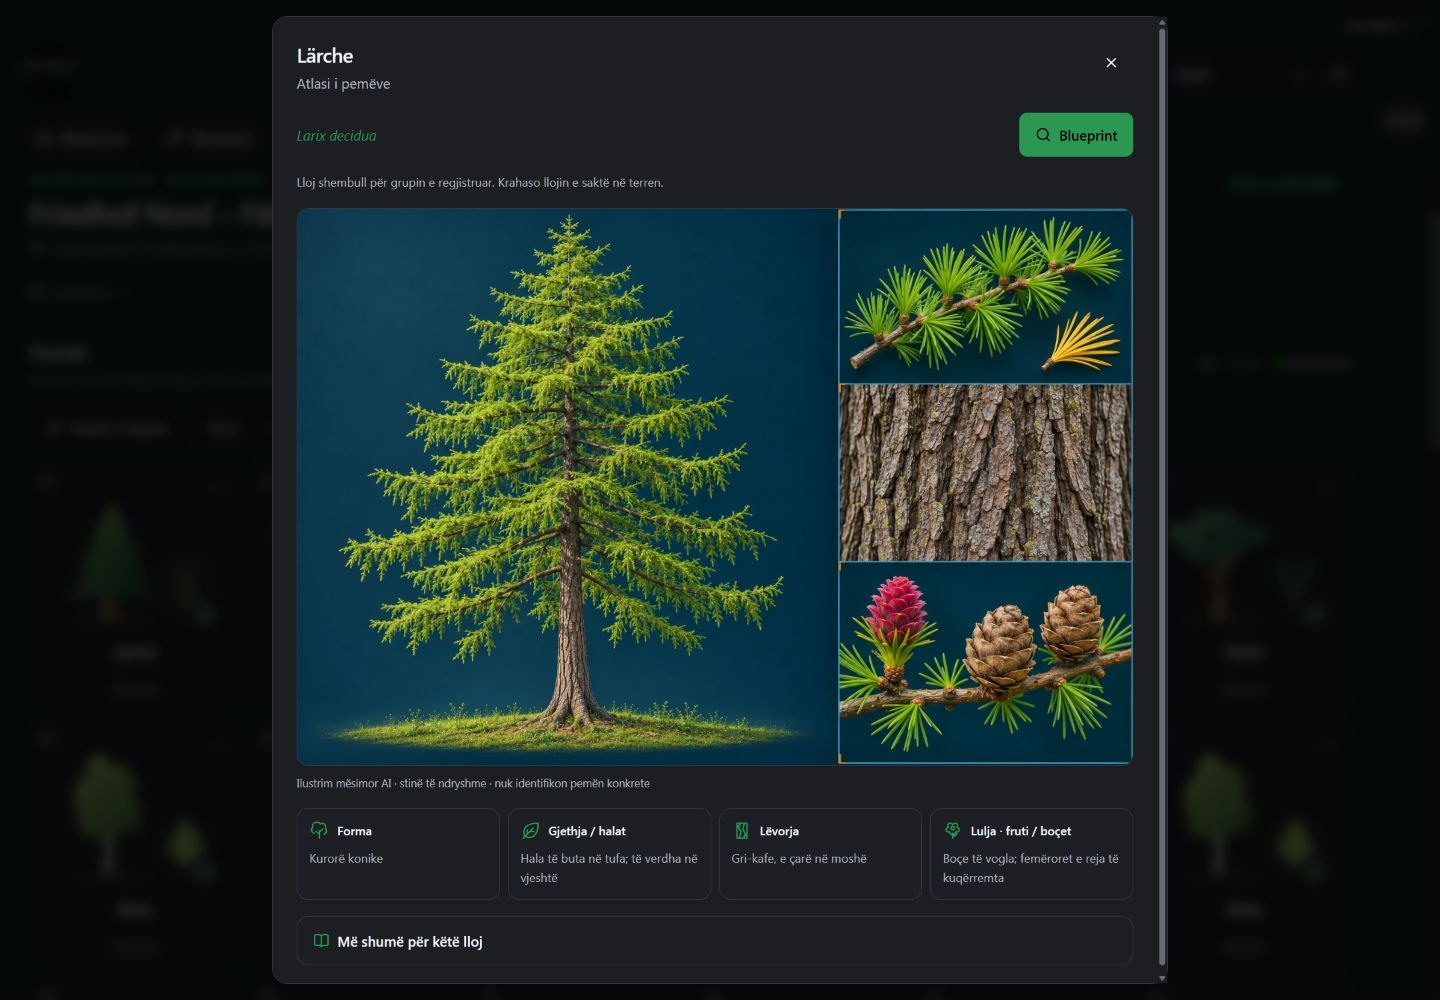
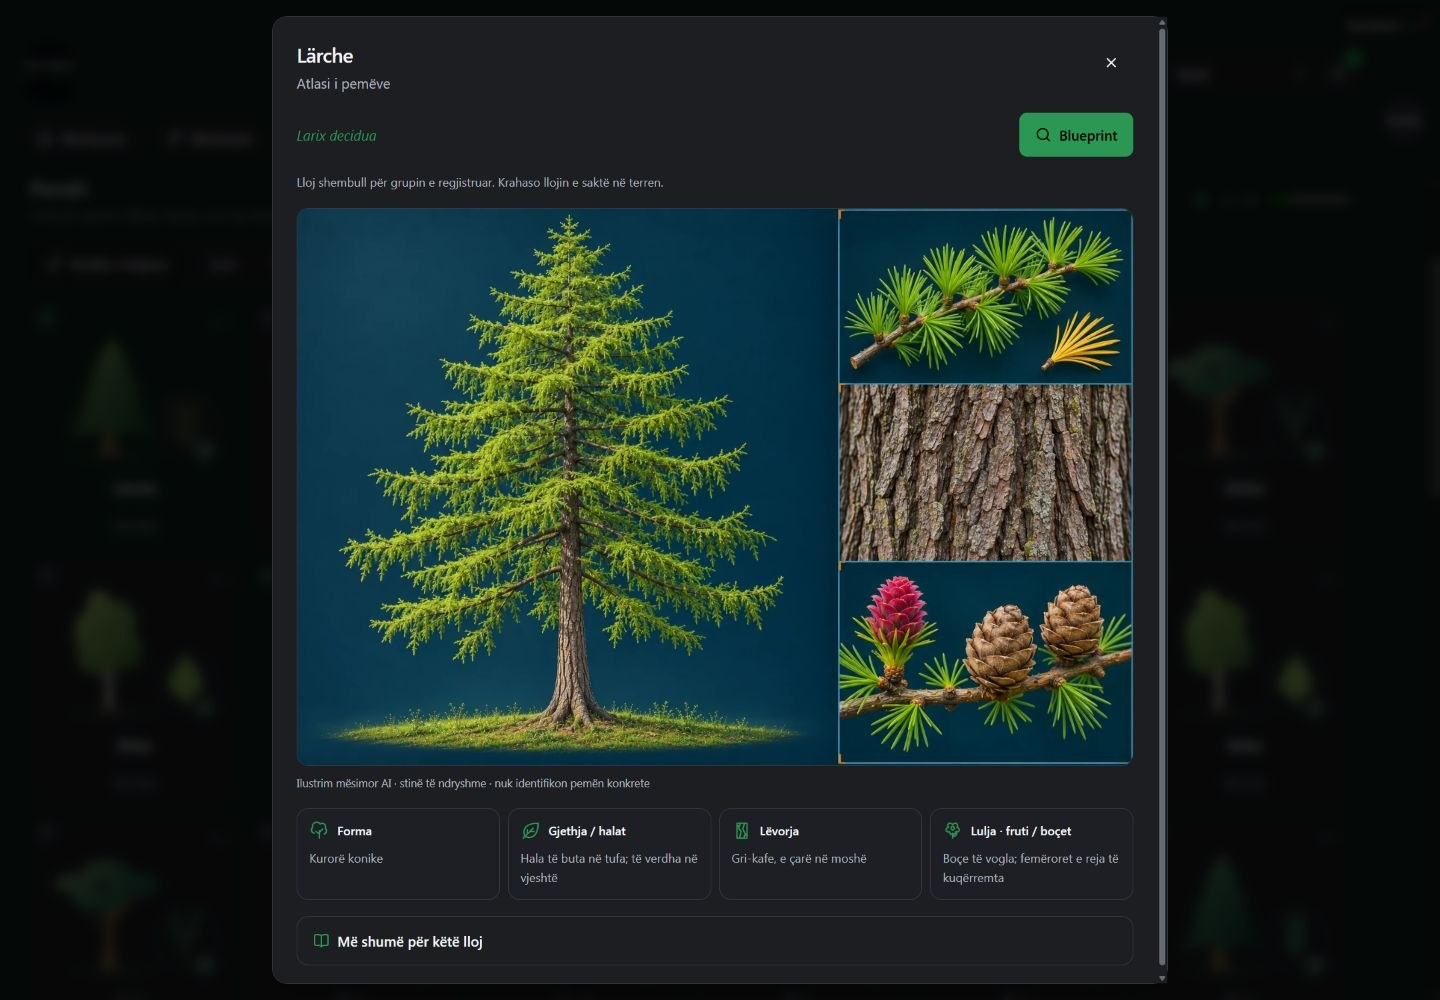
Keep curated equipment galleries free of empty photo panels

diff --git a/src/components/demo/workshop/demo-photo.tsx b/src/components/demo/workshop/demo-photo.tsx
@@ -60,7 +60,7 @@ export function DemoPhoto({ kind, target, photoKey, jobId, alt, children, classN
         </div>}
         {pending && <p role="status" className="flex items-center gap-2 text-sm"><LoaderCircle className="size-4 motion-safe:animate-spin" />{c.saving}</p>}
         {message && <p role={message === c.saved ? "status" : "alert"} className="rounded-xl border bg-muted/30 p-3 text-sm">{message}</p>}
-        {images.length ? <div className="grid gap-3 sm:grid-cols-2">{images.map(photo => <figure key={photo.id} className="overflow-hidden rounded-xl border"><a href={photo.url} target="_blank" rel="noopener noreferrer" aria-label={`${c.photos}: ${photo.name}`} className="block rounded-t-xl focus-visible:outline-none focus-visible:ring-2 focus-visible:ring-inset focus-visible:ring-ring"><Image src={photo.url} alt={alt} width={1024} height={768} unoptimized className="aspect-[4/3] w-full object-cover" /></a><figcaption className="break-words p-3 text-xs text-muted-foreground">{photo.name}<time className="mt-1 block" dateTime={photo.at}>{new Date(photo.at).toLocaleString(currentLang, { timeZone: "Europe/Berlin" })}</time><a href={photo.url} download={photo.name} className="mt-1 inline-flex min-h-11 items-center gap-2 rounded px-1 font-medium text-primary underline-offset-4 hover:underline focus-visible:outline-none focus-visible:ring-2 focus-visible:ring-ring"><Download className="size-4" />{c.download}</a></figcaption></figure>)}</div> : !generatedUrl && !working ? <div className="rounded-xl border border-dashed p-8 text-center text-sm text-muted-foreground"><Camera className="mx-auto mb-3 size-8 opacity-50" />{c.noPhotos}</div> : null}
+        {images.length ? <div className="grid gap-3 sm:grid-cols-2">{images.map(photo => <figure key={photo.id} className="overflow-hidden rounded-xl border"><a href={photo.url} target="_blank" rel="noopener noreferrer" aria-label={`${c.photos}: ${photo.name}`} className="block rounded-t-xl focus-visible:outline-none focus-visible:ring-2 focus-visible:ring-inset focus-visible:ring-ring"><Image src={photo.url} alt={alt} width={1024} height={768} unoptimized className="aspect-[4/3] w-full object-cover" /></a><figcaption className="break-words p-3 text-xs text-muted-foreground">{photo.name}<time className="mt-1 block" dateTime={photo.at}>{new Date(photo.at).toLocaleString(currentLang, { timeZone: "Europe/Berlin" })}</time><a href={photo.url} download={photo.name} className="mt-1 inline-flex min-h-11 items-center gap-2 rounded px-1 font-medium text-primary underline-offset-4 hover:underline focus-visible:outline-none focus-visible:ring-2 focus-visible:ring-ring"><Download className="size-4" />{c.download}</a></figcaption></figure>)}</div> : !generatedUrl && !working && !(kind === "asset" && catalogue) ? <div className="rounded-xl border border-dashed p-8 text-center text-sm text-muted-foreground"><Camera className="mx-auto mb-3 size-8 opacity-50" />{c.noPhotos}</div> : null}
       </div>
     </WorkshopDialog>
   </div>;

diff --git a/tests/workshop/workshop-studio.spec.ts b/tests/workshop/workshop-studio.spec.ts
@@ -34,7 +34,7 @@ test("generated raster persists across devices and a real uploaded photo has pri
   await prisma.baumdienstDemoWorkspace.update({where:{key:DEMO_WORKSPACE_KEY},data:{revision:{increment:1}}});
   const phone=await browser.newContext({baseURL:String(info.project.use.baseURL),viewport:{width:390,height:844}});try{
     await phone.addCookies([{name:"bk_lang",value:"de",url:String(info.project.use.baseURL)}]);const mobile=await phone.newPage();
-    for(const view of [page,mobile]){await view.goto("/demo/workshop?tab=tools");const photo=view.getByTestId(`demo-photo-asset-${asset.id}`);await expect(photo.locator("img")).toHaveAttribute("src",`/api/demo/baumdienst/images/${id}`);await photo.getByRole("button").click();await expect(view.getByRole("dialog")).toContainText("KI-Studioillustration");await expect(view.getByRole("dialog")).toContainText("kein Foto dieses konkreten Geräts");await expect(view.getByRole("dialog")).not.toContainText("Noch keine Fotos.");await view.getByRole("dialog").getByRole("button",{name:"Schließen",exact:true}).click();}
+    for(const view of [page,mobile]){await view.goto("/demo/workshop?tab=tools");const catalogue=view.getByTestId("demo-photo-asset-chipper");await expect(catalogue.locator("img")).toHaveJSProperty("naturalWidth",1536);expect((await catalogue.locator("img").boundingBox())!.height).toBeGreaterThan(0);expect(await catalogue.locator("img").evaluate(el=>getComputedStyle(el).objectFit)).toBe("contain");await catalogue.getByRole("button").click();await expect(view.getByRole("dialog")).toContainText("KI-Katalogillustration");await expect(view.getByRole("dialog")).not.toContainText("Noch keine Fotos.");await view.getByRole("dialog").getByRole("button",{name:"Schließen",exact:true}).click();const photo=view.getByTestId(`demo-photo-asset-${asset.id}`);await expect(photo.locator("img")).toHaveAttribute("src",`/api/demo/baumdienst/images/${id}`);await photo.getByRole("button").click();await expect(view.getByRole("dialog")).toContainText("KI-Studioillustration");await expect(view.getByRole("dialog")).toContainText("kein Foto dieses konkreten Geräts");await expect(view.getByRole("dialog")).not.toContainText("Noch keine Fotos.");await view.getByRole("dialog").getByRole("button",{name:"Schließen",exact:true}).click();}
     const image=await request.get(`/api/demo/baumdienst/images/${id}`);expect(image.headers()["content-type"]).toBe("image/webp");expect(image.headers()["cross-origin-resource-policy"]).toBe("same-origin");
     const latest=await(await request.get("/api/demo/baumdienst/workshop")).json() as WorkshopSnapshot;
     const upload=await request.post("/api/demo/baumdienst/files",{headers:{Origin:String(info.project.use.baseURL)},multipart:{requestId:randomUUID(),revision:String(latest.revision),kind:"asset",target:asset.id,file:{name:"DEMO-own.webp",mimeType:"image/webp",buffer:raster}}});expect(upload.status()).toBe(200);
